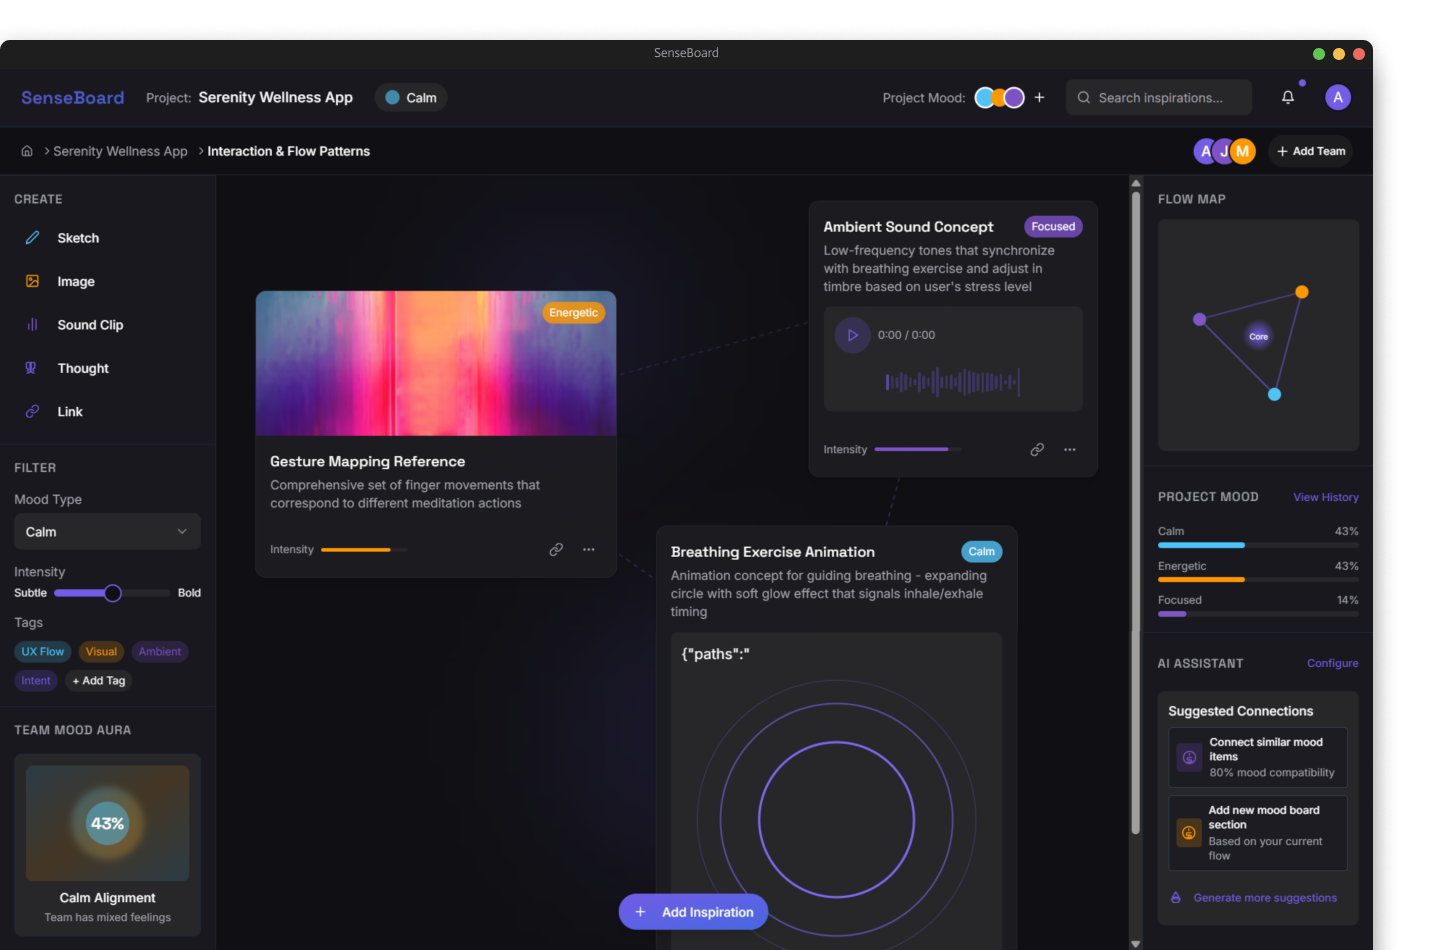
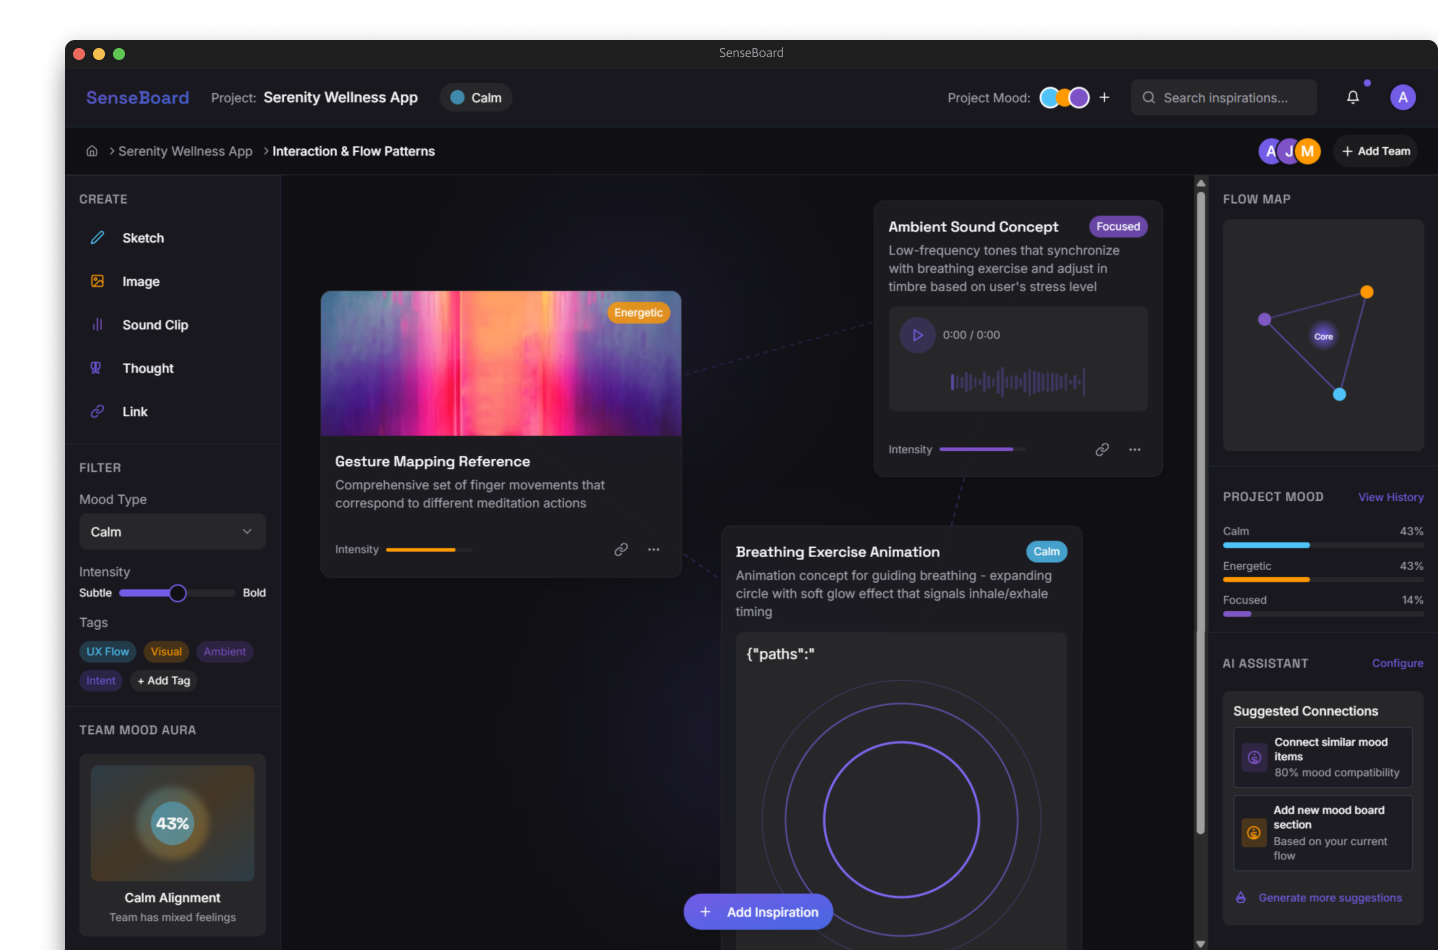
spendle added

diff --git a/src/utils/projectDetails.ts b/src/utils/projectDetails.ts
@@ -12,7 +12,7 @@ export type ProjectProps = {
 
 export const devProjects = [
   {
-    id: 1,
+    id: 0,
     name: "SenseBoard",
     description:
       "A sensory-first workspace where creative teams map inspirations, moods, and ideas — aligning on the emotional direction of a product through visual, auditory, and intuitive cues.",
@@ -24,7 +24,19 @@ export const devProjects = [
     slug: "senseboard",
   },
   {
-    id: 0,
+    id: 1,
+    name: "Splendle",
+    description:
+      "A simple, elegant expense tracker for personal budgeting and shared events — track daily spending, split trip costs, and stay financially organized with ease.",
+    technologies: ["UX DESIGN", "INTERFACE SYSTEMS"],
+    github: "https://senseboard.onrender.com/",
+    demo: "https://www.figma.com/proto/YZThtAY9D7E9HdeVydPjlK/Splendle?node-id=185-1102&p=f&t=FRjSI4OpX9hLGWwZ-1&scaling=min-zoom&content-scaling=fixed&page-id=185%3A1101&starting-point-node-id=185%3A1102",
+    image: require(".//../../public/projects/Spendle.png"),
+    available: false,
+    slug: "spendle",
+  },
+  {
+    id: 2,
     name: "EventDesk",
     description:
       "A full-featured event management SaaS platform enabling seamless collaboration among organizers, hosts, vendors, and attendees for efficient planning and execution.",
@@ -37,7 +49,7 @@ export const devProjects = [
     slug: "eventdesk",
   },
   {
-    id: 1,
+    id: 3,
     name: "Michigan Tech",
     description:
       "Redesigned university websites and departmental microsites to enhance search visibility, improve usability, and boost user engagement.",
@@ -49,7 +61,7 @@ export const devProjects = [
     slug: "michiganTech",
   },
   {
-    id: 2,
+    id: 4,
     name: "HuskyBot App",
     description:
       "Designed UI for SPOT’s navigation system with gesture and voice-based controls, emphasizing usability, real-time feedback, and human-robot collaboration.",
@@ -62,7 +74,7 @@ export const devProjects = [
     slug: "huskyBot",
   },
   {
-    id: 3,
+    id: 5,
     name: "MadrasDa",
     description:
       "Designed a full-scale e-commerce platform for branded merchandise, designed to ensure seamless navigation, responsive layouts, and enhanced user engagement.",
@@ -75,7 +87,7 @@ export const devProjects = [
     slug: "madrasDa",
   },
   {
-    id: 4,
+    id: 6,
     name: "Vault",
     description:
       "An AI-powered personal finance app that helps users track income, monitor expenses, and gain real-time insights to stay effortlessly in control of their finances.",
@@ -88,7 +100,7 @@ export const devProjects = [
     slug: "vault",
   },
   {
-    id: 5,
+    id: 7,
     name: "Photoier",
     description:
       "Designed an AI-driven facial recognition app that automates photo organization and sharing, making it effortless to tag, manage, and share memories seamlessly.",
